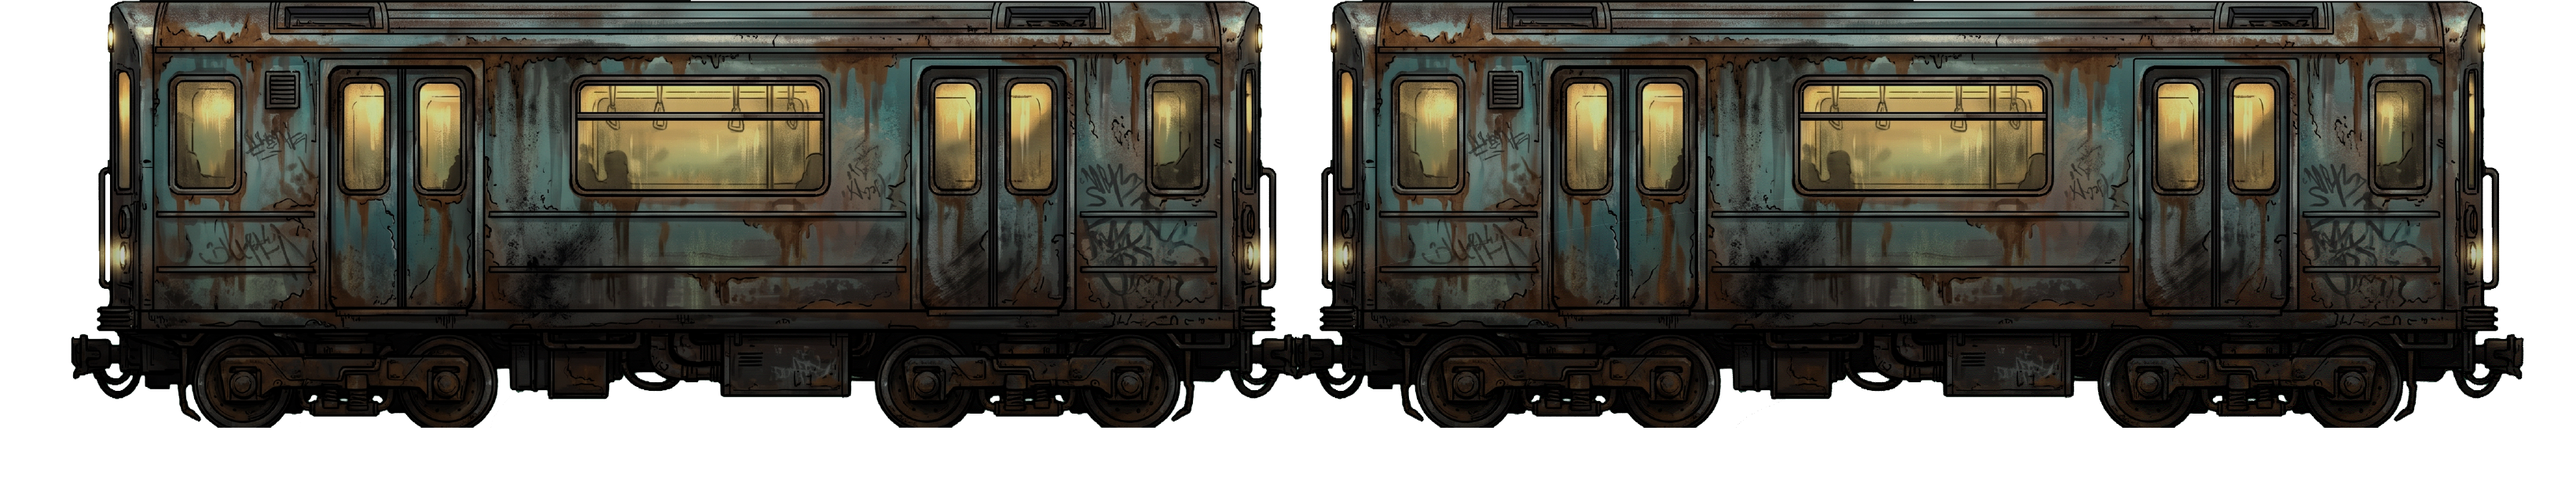
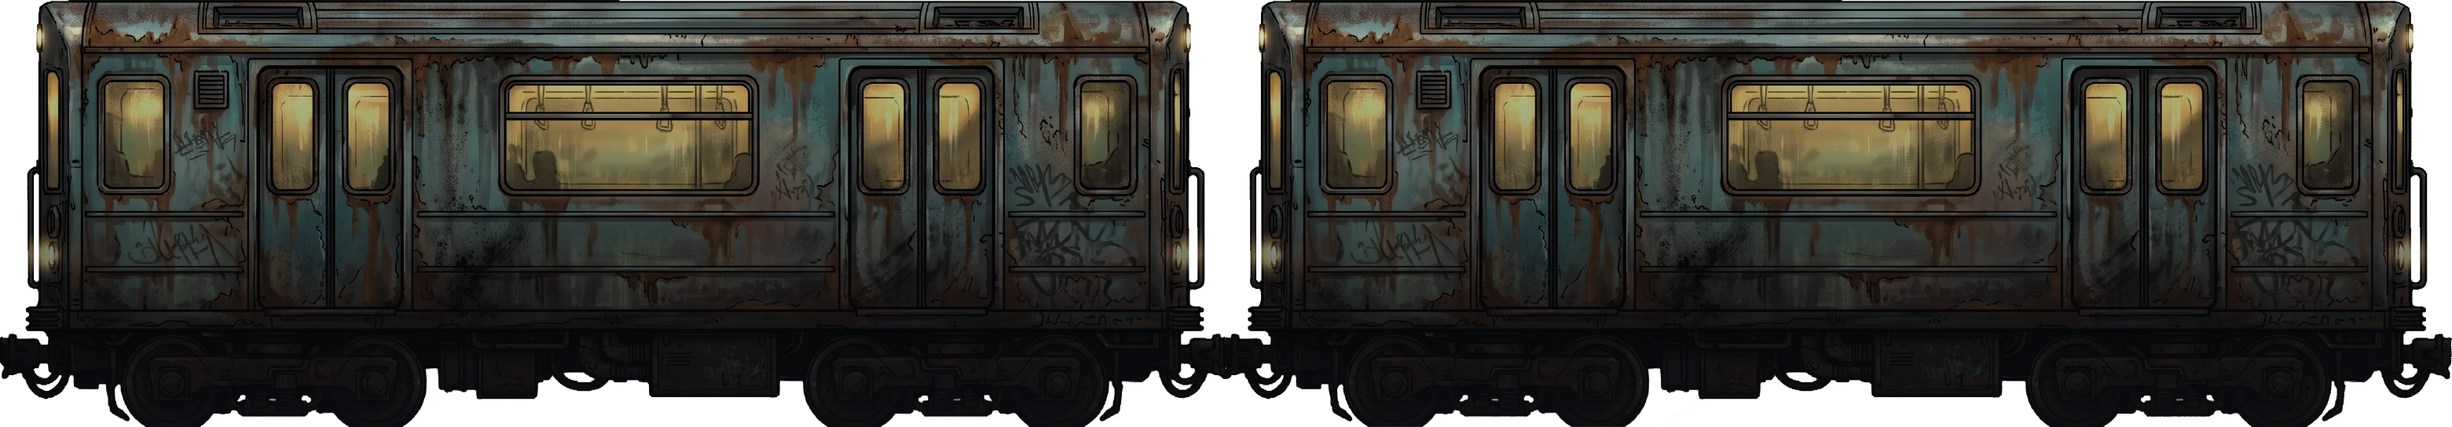
Story: new metro art at reference scale (zoom .668, train height), dynamic fighter lighting from location art and room lights

diff --git a/index.html b/index.html
@@ -21,7 +21,7 @@ let WW=1634;const SPAN=W-90; // в прохождении WW — ширина т
 let AL=236,AR=1398; // края зоны для ходьбы с запасом на ширину бойца (у каждой арены свои, см. ARENAS)
 let camX=(WW-W)/2;
 const camTarget=()=>clamp((F[0].x+F[1].x)/2-W/2,0,WW-W);
-const cv=document.getElementById('c'),ctx=cv.getContext('2d');
+const cv=document.getElementById('c');let ctx=cv.getContext('2d'); // let: в прохождении бойцы рисуются во временный холст для освещения
 const clamp=(v,a,b)=>Math.max(a,Math.min(b,v));
 
 // ---------- ввод ----------
@@ -2756,20 +2756,21 @@ const ROOMS={
       post:['Ржавый сплюнул кровь вместе с правдой.','— Её увезли... в метро. Канал-стрит, заброшенный перегон. Там лаборатория Дока...','— Док не отпустит её живой, Конь. Никого не отпускает.',
         'Я оставил его на полу. Ночь только начиналась.'],then:()=>{STY.flags.boss=1;}}],
     spots:[{id:'out',x0:236,x1:340,label:'выйти на улицу',to:'street',at:1215,face:1}]},
-  metro:{name:'СТАНЦИЯ «КАНАЛ-СТРИТ»',kind:'img',bg:'loc_metro.jpg',w:2037,gy:400,al:60,ar:1990,z:.8,tint:'rgba(6,14,10,.12)',train:241,
-    lights:[{x:722,y:44,r:240,c:'255,240,170',a:.22,fl:.01},{x:1395,y:44,r:240,c:'255,240,170',a:.2,fl:.03}],
+  metro:{name:'СТАНЦИЯ «КАНАЛ-СТРИТ»',kind:'img',bg:'loc_metro.jpg',w:1923,gy:399,al:50,ar:1880,z:.668,tint:'rgba(6,14,10,.10)',train:242,
+    lights:[{x:683,y:112,r:230,c:'255,240,170',a:.2,fl:.01,cone:1},{x:1303,y:110,r:230,c:'255,240,170',a:.18,fl:.03,cone:1}],
     enter:['Подземка. Воздух здесь старше города — пахнет ржавчиной, мочой и электричеством.','Где-то в этих туннелях — лаборатория Дока. И она.'],
-    fights:[{x:450,lock:[60,1020],foes:['shest','thug'],pre:['На платформе меня ждали. Ржавый всё-таки успел позвонить.']},
-      {x:1300,lock:[1077,2037],foes:['guard'],pre:['У входа в перегон стоял здоровяк в белом халате поверх куртки. Охрана Дока.','— Дальше нельзя, — сказал он. — Док не любит гостей.','Я тоже.'],
+    fights:[{x:450,lock:[50,1010],foes:['shest','thug'],pre:['На платформе меня ждали. Ржавый всё-таки успел позвонить.']},
+      {x:1250,lock:[963,1923],foes:['guard'],pre:['У входа в перегон стоял здоровяк в белом халате поверх куртки. Охрана Дока.','— Дальше нельзя, — сказал он. — Док не любит гостей.','Я тоже.'],
         post:['Охранник хрипел на бетоне. В кармане его халата — ключ с биркой: «Перегон 4. Лаборатория».']}],
     spots:[
-      {id:'up',x0:60,x1:200,label:'наверх, на улицу',to:'street',at:1960,face:-1},
-      {id:'exit',x0:1080,x1:1140,label:'выход',once:1,lines:['Табличка «EXIT». Наверху — тот же город. Мне — вниз.']},
-      {id:'tunnel',x0:1900,x1:2030,label:'в туннель',end:1,need:'guard',locked:['Тёмный перегон. Сначала надо пройти мимо охраны.'],
+      {id:'up',x0:50,x1:190,label:'наверх, на улицу',to:'street',at:1960,face:-1},
+      {id:'exit',x0:1010,x1:1070,label:'выход',once:1,lines:['Табличка «EXIT». Наверху — тот же город. Мне — вниз.']},
+      {id:'tunnel',x0:1790,x1:1915,label:'в туннель',end:1,need:'guard',locked:['Тёмный перегон. Сначала надо пройти мимо охраны.'],
         lines:['Перегон уходил в темноту, как глотка. Где-то там, под городом, была она.','И я шёл за ней.']}]}
 };
 // после стычки с охраной Дока — открыт туннель (флаг ставит стычка)
 ROOMS.metro.fights[1].then=()=>{STY.flags.guard=1;};
+ROOMS.street.spots.find(s=>s.id==='subway').at=110;
 // Зум локации z: всё рисуется ×z (бойцы ростом как на референсах — 151 px при росте картинки 540). Комнаты выше заданы
 // в экранных пикселях; здесь — один раз — переводятся в единицы мира (÷z), в которых живут бойцы, удары и камера.
 (function(){
@@ -2996,6 +2997,44 @@ function storyScreenFx(){
   }
   const g=ctx.createRadialGradient(W/2,H*.55,H*.35,W/2,H*.55,H*.95);g.addColorStop(0,'rgba(0,0,0,0)');g.addColorStop(1,'rgba(0,0,0,.7)');
   ctx.fillStyle=g;ctx.fillRect(0,0,W,H);
+}
+// ---------- динамическое освещение бойцов ----------
+// Яркость и цвет света берутся с картинки локации вокруг фигуры бойца (уменьшенная копия фона, 1 px ≈ 8 px мира):
+// в тени боец темнее, под лампой — светлее и окрашен её светом (тёплый, холодный, неон). Плюс источники света комнаты.
+// Меняется плавно (f.lit). Боец рисуется во временный холст: там затемнение/яркость и подкраска только по его силуэту.
+const LMAP={};
+function lightMap(R){
+  if(LMAP[R.bg])return LMAP[R.bg];
+  const im=simgf(R.bg);if(!imgOk(im))return null;
+  const gw=Math.round(R.w/8),gh=Math.round(H/RZ()/8),c=document.createElement('canvas');c.width=gw;c.height=gh;
+  const x=c.getContext('2d');x.drawImage(im,0,0,gw,gh);
+  try{return LMAP[R.bg]={w:gw,h:gh,d:x.getImageData(0,0,gw,gh).data};}catch(e){return LMAP[R.bg]={w:0};}
+}
+function lightAt(f){
+  const R=ROOMS[STY.room];let r=0,g=0,b=0,n=0;
+  const M=R.kind==='img'?lightMap(R):null;
+  if(M&&M.w){ // средний цвет фона за фигурой
+    const x0=Math.max(0,(f.x-30)/8|0),x1=Math.min(M.w-1,(f.x+30)/8|0),y0=Math.max(0,(f.y-175)/8|0),y1=Math.min(M.h-1,(f.y-10)/8|0);
+    for(let y=y0;y<=y1;y++)for(let x=x0;x<=x1;x++){const i=(y*M.w+x)*4;r+=M.d[i];g+=M.d[i+1];b+=M.d[i+2];n++;}
+  }
+  if(n){r/=n*255;g/=n*255;b/=n*255;}else{r=g=b=.16;}
+  for(const l of R.lights||[]){const d=Math.hypot(l.x-f.x,l.y-(f.y-90));if(d<l.r*1.1){const k=l.a*(1-d/(l.r*1.1))*1.6,[lr,lg,lb]=l.c.split(',').map(v=>v/255);r+=lr*k;g+=lg*k;b+=lb*k;}}
+  return[r,g,b];
+}
+const LC=document.createElement('canvas');LC.width=W;LC.height=H;const lcx=LC.getContext('2d');
+function drawLitF(f){
+  const[r,g,b]=lightAt(f),lum=.3*r+.59*g+.11*b,t=f.lit||(f.lit={b:1,r:1,g:1,bl:1});
+  const tb=clamp(.42+lum*1.9,.45,1.3),m=Math.max(r,g,b,.001); // яркость: тёмный угол ~0,5, под лампой ~1,2
+  t.b+=(tb-t.b)*.08;t.r+=(r/m-t.r)*.08;t.g+=(g/m-t.g)*.08;t.bl+=(b/m-t.bl)*.08; // плавно
+  if(f.flash>0){drawF(f);return;} // вспышка удара — без освещения
+  lcx.setTransform(1,0,0,1,0,0);lcx.clearRect(0,0,W,H);lcx.setTransform(ctx.getTransform());
+  const main=ctx;ctx=lcx;lcx.filter=`brightness(${t.b.toFixed(3)})`;
+  try{drawF(f);}finally{ctx=main;lcx.filter='none';}
+  // подкраска цветом света — только по силуэту бойца
+  lcx.setTransform(1,0,0,1,0,0);lcx.globalCompositeOperation='source-atop';
+  lcx.fillStyle=`rgba(${t.r*255|0},${t.g*255|0},${t.bl*255|0},${clamp(.1+(t.b-.6)*.25,.08,.28).toFixed(3)})`;lcx.fillRect(0,0,W,H);
+  lcx.globalCompositeOperation='source-over';
+  ctx.save();ctx.setTransform(1,0,0,1,0,0);ctx.drawImage(LC,0,0);ctx.restore();
 }
 function drawStoryDiff(){
   const im=simgf('loc_street.jpg');
@@ -3275,7 +3314,7 @@ function render(){
     ctx.ellipse(f.x,GY+3,Math.max(14,40-(GY-f.y)*.12),7,0,0,7);ctx.fill();
   }
   const order=F[0].state==='attack'?[F[1],F[0]]:[F[0],F[1]];
-  for(const f of order)if(!f.gone)drawF(f);
+  for(const f of order)if(!f.gone){if(G.mode===7)drawLitF(f);else drawF(f);}
   SPFX=SPFX.filter(e=>frame-e.t0<16&&imgOk(e.spr.img));
   for(const e of SPFX){ // брызги плевка
     const s=e.spr,fr=frame-e.t0<8?4:7,sc=.62;

diff --git a/tools/story_locs.py b/tools/story_locs.py
@@ -46,7 +46,7 @@ def find(fg, ref, k):  # сдвиг fg внутри ref (оба в одном м
 jobs = [  # (выход, фон, [(передний план, референс или None)])
     ('apt', 'квартира/квартира.png', [('apt_fg_chair', 'квартира/передний план, кресло.png', None), ('apt_fg_table', 'квартира/передний план, стол.png', None)]),
     ('street', 'улица/улица.png', [('street_fg', 'улица/передний план.png', 'улица/референс размеров локации.png'), ('street_fg_car', 'улица/авто.png', 'улица/референс размеров локации.png')]),
-    ('metro', 'метро/метро.png', [('metro_train', 'метро/проезжающий вагон пердний план.png', None)]),
+    ('metro', 'метро/метро.png', [('metro_train', 'метро/вагон.png', 'метро/реф размеров.png')]),
 ]
 for name, bgp, fgs in jobs:
     bg = load(os.path.join(src, bgp)); h, w = bg.shape[:2]; s = H / h
